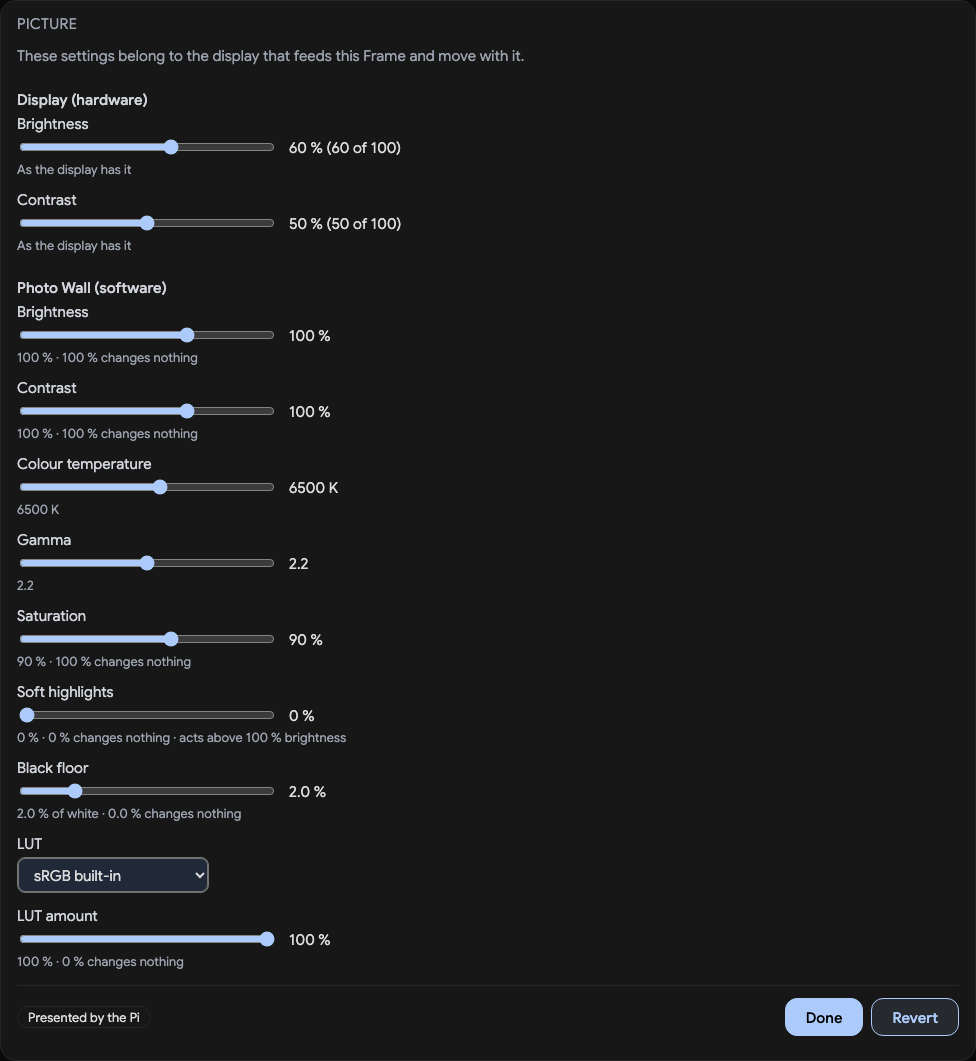
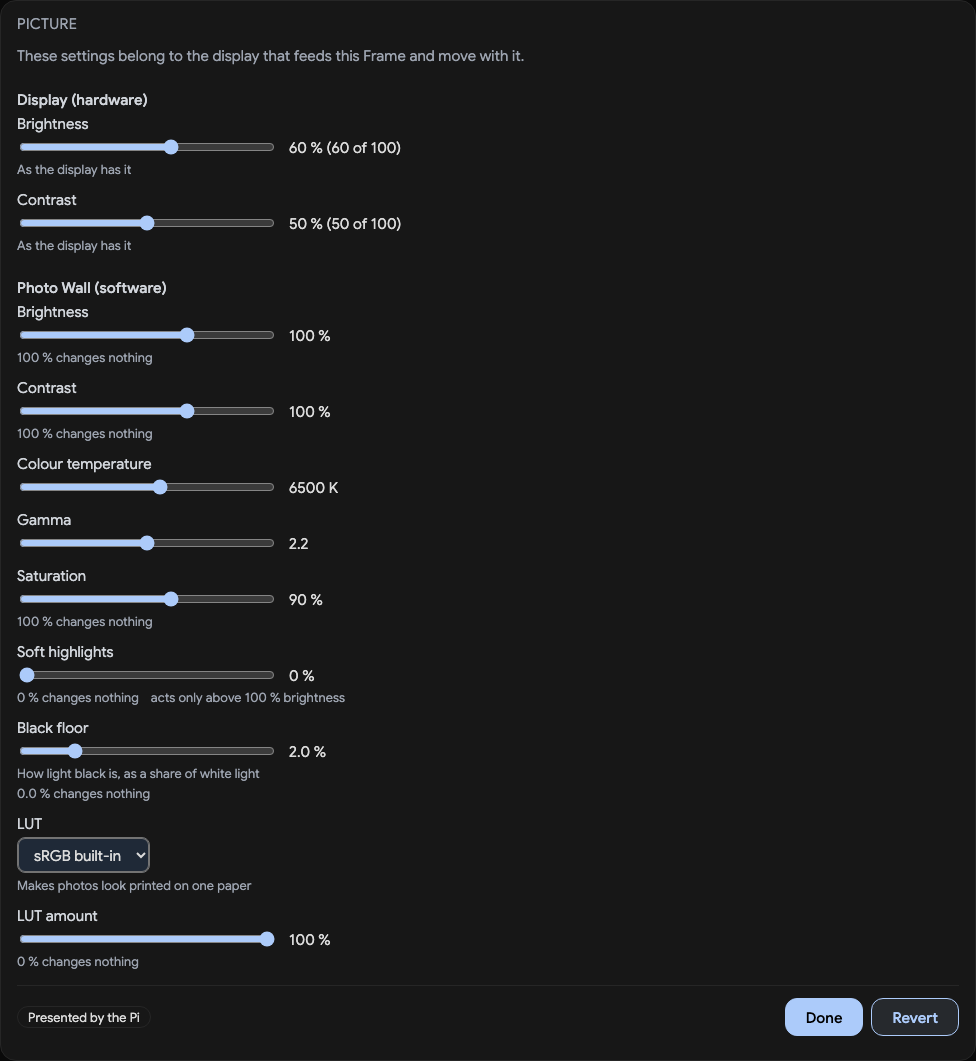
docs(evidence): the print look's tabs after the end review, and Settings › LUTs, dark and light

diff --git a/tests/browser/capture_print_look_evidence.py b/tests/browser/capture_print_look_evidence.py
@@ -1,4 +1,5 @@
-"""Before/after screenshots of the Frame page's Picture and Position tabs for the print look (0023).
+"""Screenshots of the print look (0023): the Frame page's Picture and Position tabs before and
+after, and Settings › LUTs after (a new page, so no before).
 
 Not a test (no `test_` prefix, so CI never collects it). Run it by path, against a built console
 and the test database, as the browser tier runs (AGENTS.md Verify):
@@ -9,7 +10,7 @@ and the test database, as the browser tier runs (AGENTS.md Verify):
 `-k before` runs on a checkout of the base branch (feat/picture-hardware-and-software, PR 94) with
 this file copied there: the `before` cases import nothing that branch lacks. PNGs go to
 $PHOTO_WALL_EVIDENCE_DIR (default docs/evidence/print-look), one per tab state and colour scheme,
-each the tab's own region. Seeding reuses the browser tests' own helpers
+each the tab's own region (Settings › LUTs: the whole view). Seeding reuses the browser tests' own helpers
 (test_frame_picture_browser.py, test_console_frame_page_browser.py, test_frame_mat_browser.py),
 so every state shown here is one those tests prove.
 """
@@ -18,7 +19,7 @@ import os
 from pathlib import Path
 
 import pytest
-from console_tasks import connect, open_frame
+from console_tasks import connect, go, open_frame
 from operator_harness import operator_server, sign_in
 from playwright.sync_api import expect
 
@@ -125,3 +126,59 @@ def test_after_position(page, registry, scheme):
         expect(_bar(page).get_by_role("status")).to_have_text(PRESENTED)
         _shot(page, "Position", "after-position", scheme)
     page.unroute_all(behavior="ignoreErrors")
+
+
+def _luts_shot(page, name: str, scheme: str) -> None:
+    OUT.mkdir(parents=True, exist_ok=True)
+    page.wait_for_timeout(400)
+    page.screenshot(path=str(OUT / f"{name}.{scheme}.png"), animations="disabled", caret="hide")
+
+
+@pytest.mark.parametrize("scheme", SCHEMES)
+def test_after_luts_empty(page, registry, scheme):
+    """Settings › LUTs before any paper profile is added (new page: no before)."""
+    _open(page, scheme)
+    with operator_server(registry.db, registry.clock) as origin:
+        connect(page, origin, "luts")
+        expect(page.get_by_text("Add a paper profile from your paper's maker.", exact=True)).to_be_visible()
+        _luts_shot(page, "after-luts-empty", scheme)
+
+
+@pytest.mark.parametrize("scheme", SCHEMES)
+def test_after_luts(page, registry, scheme):
+    """Settings › LUTs with one paper's LUT, chosen on a Display's Picture tab and kept with Done,
+    so the list names the Display that uses it (new page: no before)."""
+    from test_frame_picture_browser import (
+        FRAME,
+        PHOTO_WALL,
+        PRESENTED,
+        FakePi,
+        _bar,
+        _group,
+        _off_thread,
+        _seen,
+    )
+    from test_print_look_luts import _as_printer, _monitor
+
+    from central.infra.lut_store import PgLuts
+    from contracts.time import ManualClock
+
+    _seen(registry)
+    added = ManualClock(1_791_797_400)  # 12 Oct 2026, so Added shows a real day, not the rig's 1970
+    paper, _ = PgLuts(registry.db, added).add_lut(_as_printer(_monitor()))
+    _open(page, scheme)
+    with FakePi(registry), operator_server(registry.db, registry.clock) as origin:
+        connect(page, origin, "wall")
+        open_frame(page, FRAME, "picture")
+        bar = _bar(page)
+        expect(bar.get_by_role("status")).to_have_text(PRESENTED)
+        _group(page, PHOTO_WALL).get_by_role("combobox", name="LUT", exact=True).select_option(
+            value=paper.profile_sha256)
+        expect(bar.get_by_role("status")).to_have_text(PRESENTED)
+        bar.get_by_role("button", name="Done", exact=True).click()
+        expect(page.get_by_role("region", name="Picture", exact=True).get_by_role("status").filter(
+            has_text="Saved at")).to_be_visible()
+        [display] = _off_thread(lambda: PgLuts(registry.db, registry.clock).list_luts()).luts[0].used_by
+        go(page, "luts")
+        expect(page.get_by_role("table", name="On the list", exact=True)).to_contain_text(display)
+        _luts_shot(page, "after-luts", scheme)
